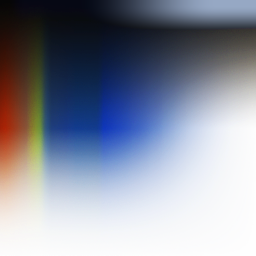
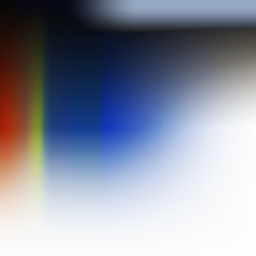
Calibrate Himawari-9 IR to GOES ch13 so land renders green
Himawari IR (HRIT relay) puts warm surfaces at counts ~14-26 vs ~45-50
for GOES ch13, which pushed land into the red/orange part of GOES-tuned
LUTs. Add himawari9_ir_curve.png (quantile-matched on 4 GOES-19 ch13 and
5 Himawari-9 IR frames from 2026-11-23) and use it via [handler.remap.ir]
in the example config. Calibration script: calibrate_himawari_ir.py.

Night LUT: cloud fade-in retuned to the real ch13 cold range
(0.24-0.55) so night clouds are visible on both satellites.

Claude-Session: https://claude.ai/code/session_01LaiUmMLqer56t82u3eYceP

Changed region(s): [[0.3125, 0.0, 0.7188, 0.125]]

diff --git a/scripts/calibrate_himawari_ir.py b/scripts/calibrate_himawari_ir.py
@@ -1,0 +1,57 @@
+#!/usr/bin/env python3
+"""Calibrate Himawari-9 IR (HRIT relay) onto the GOES ABI ch13 scale.
+
+The relayed Himawari IR image uses a different count-to-temperature
+scale than GOES CMIP ch13: warm surfaces sit around 14-26 instead of
+~45-50, so GOES-tuned false color LUTs paint land red/orange instead of
+green. This builds a remap curve by quantile-matching the full-disk IR
+distributions of several GOES ch13 frames and Himawari IR frames.
+
+Usage:
+  calibrate_himawari_ir.py OUT.png --goes ch13_a.jpg ch13_b.jpg ... \\
+                                   --himawari ir_a.jpg ir_b.jpg ...
+Use 3+ frames of each, spread over the day. Image files are goesproc
+output (grey JPG/PNG); white map lines and off-disk fill are ignored.
+Use in goesproc as:  [handler.remap.ir]  path = "OUT.png"
+"""
+import argparse
+import numpy as np
+from PIL import Image
+
+Image.MAX_IMAGE_PIXELS = None
+
+def disk_values(path, off):
+    a = np.array(Image.open(path).convert("L"))
+    step = max(1, a.shape[0] // 1800)
+    a = a[::step, ::step]
+    n = a.shape[0]
+    yy, xx = np.mgrid[0:n, 0:n]
+    inside = np.hypot(xx - n / 2, yy - n / 2) / (n / 2) < 0.95
+    v = a[inside]
+    return v[(v != off) & (v > 0) & (v < 250)]
+
+ap = argparse.ArgumentParser()
+ap.add_argument("out")
+ap.add_argument("--goes", nargs="+", required=True)
+ap.add_argument("--himawari", nargs="+", required=True)
+args = ap.parse_args()
+
+g = np.concatenate([disk_values(p, 0) for p in args.goes])
+h = np.concatenate([disk_values(p, 255) for p in args.himawari])
+q = np.linspace(0.2, 99.8, 400)
+gq, hq = np.percentile(g, q), np.percentile(h, q)
+
+x = np.arange(256)
+f = np.interp(x, hq, gq)
+lo, hi = int(hq[0]), hq[-1]
+slope_lo = (gq[5] - gq[0]) / max(hq[5] - hq[0], 1)
+f[:lo] = np.maximum(gq[0] - (lo - x[:lo]) * slope_lo, 0)
+top = x > hi
+f[top] = gq[-1] + (x[top] - hi) * (255 - gq[-1]) / max(255 - hi, 1)
+f = np.maximum.accumulate(np.clip(f, 0, 255))
+f = np.convolve(np.pad(f, 3, mode="edge"), np.ones(7) / 7, "valid")
+curve = np.rint(f).astype(np.uint8)
+curve[0] = 0   # off-disk pixels are blanked to 0 before remap; keep them black
+Image.fromarray(curve.reshape(1, 256), "L").save(args.out)
+print("wrote", args.out)
+print("himawari -> goes:", [(int(i), int(curve[i])) for i in (10, 20, 35, 50, 100, 165, 220)])

diff --git a/scripts/make_night_lut.py b/scripts/make_night_lut.py
@@ -20,7 +20,7 @@ from PIL import Image
 # --- knobs -----------------------------------------------------------
 NIGHT_CLOUD = (150, 168, 196)   # colour of the coldest night cloud tops
 NIGHT_SKY   = (4, 8, 20)        # night-side background (clear sky)
-CLOUD_FROM, CLOUD_TO = 0.30, 0.85   # IR coldness range clouds fade in over
+CLOUD_FROM, CLOUD_TO = 0.24, 0.55   # IR coldness range clouds fade in over (ch13 counts ~61-140)
 SPACE_TO = 0.10                     # IR counts below this fade to black (space)
 FADE_FROM, FADE_TO = 0.02, 0.16     # visible range over which night fades out
 # ---------------------------------------------------------------------

diff --git a/README.md b/README.md
@@ -28,6 +28,8 @@ Tools to work with signals and files from GOES satellites.
 >     (`scripts/make_night_lut.py`, works on any LUT)
 >   * `himawari9_vs_curve.png`: contrast curve that brings Himawari VS
 >     up to GOES ch02 brightness (`scripts/make_himawari_vs_curve.py`)
+>   * `himawari9_ir_curve.png`: puts Himawari IR on the GOES ch13
+>     scale so land is green, not red (`scripts/calibrate_himawari_ir.py`)
 >   * `usradioguy_natural_lut.png`: experimental from-scratch LUT
 >     (`scripts/make_natural_lut.py`)
 
